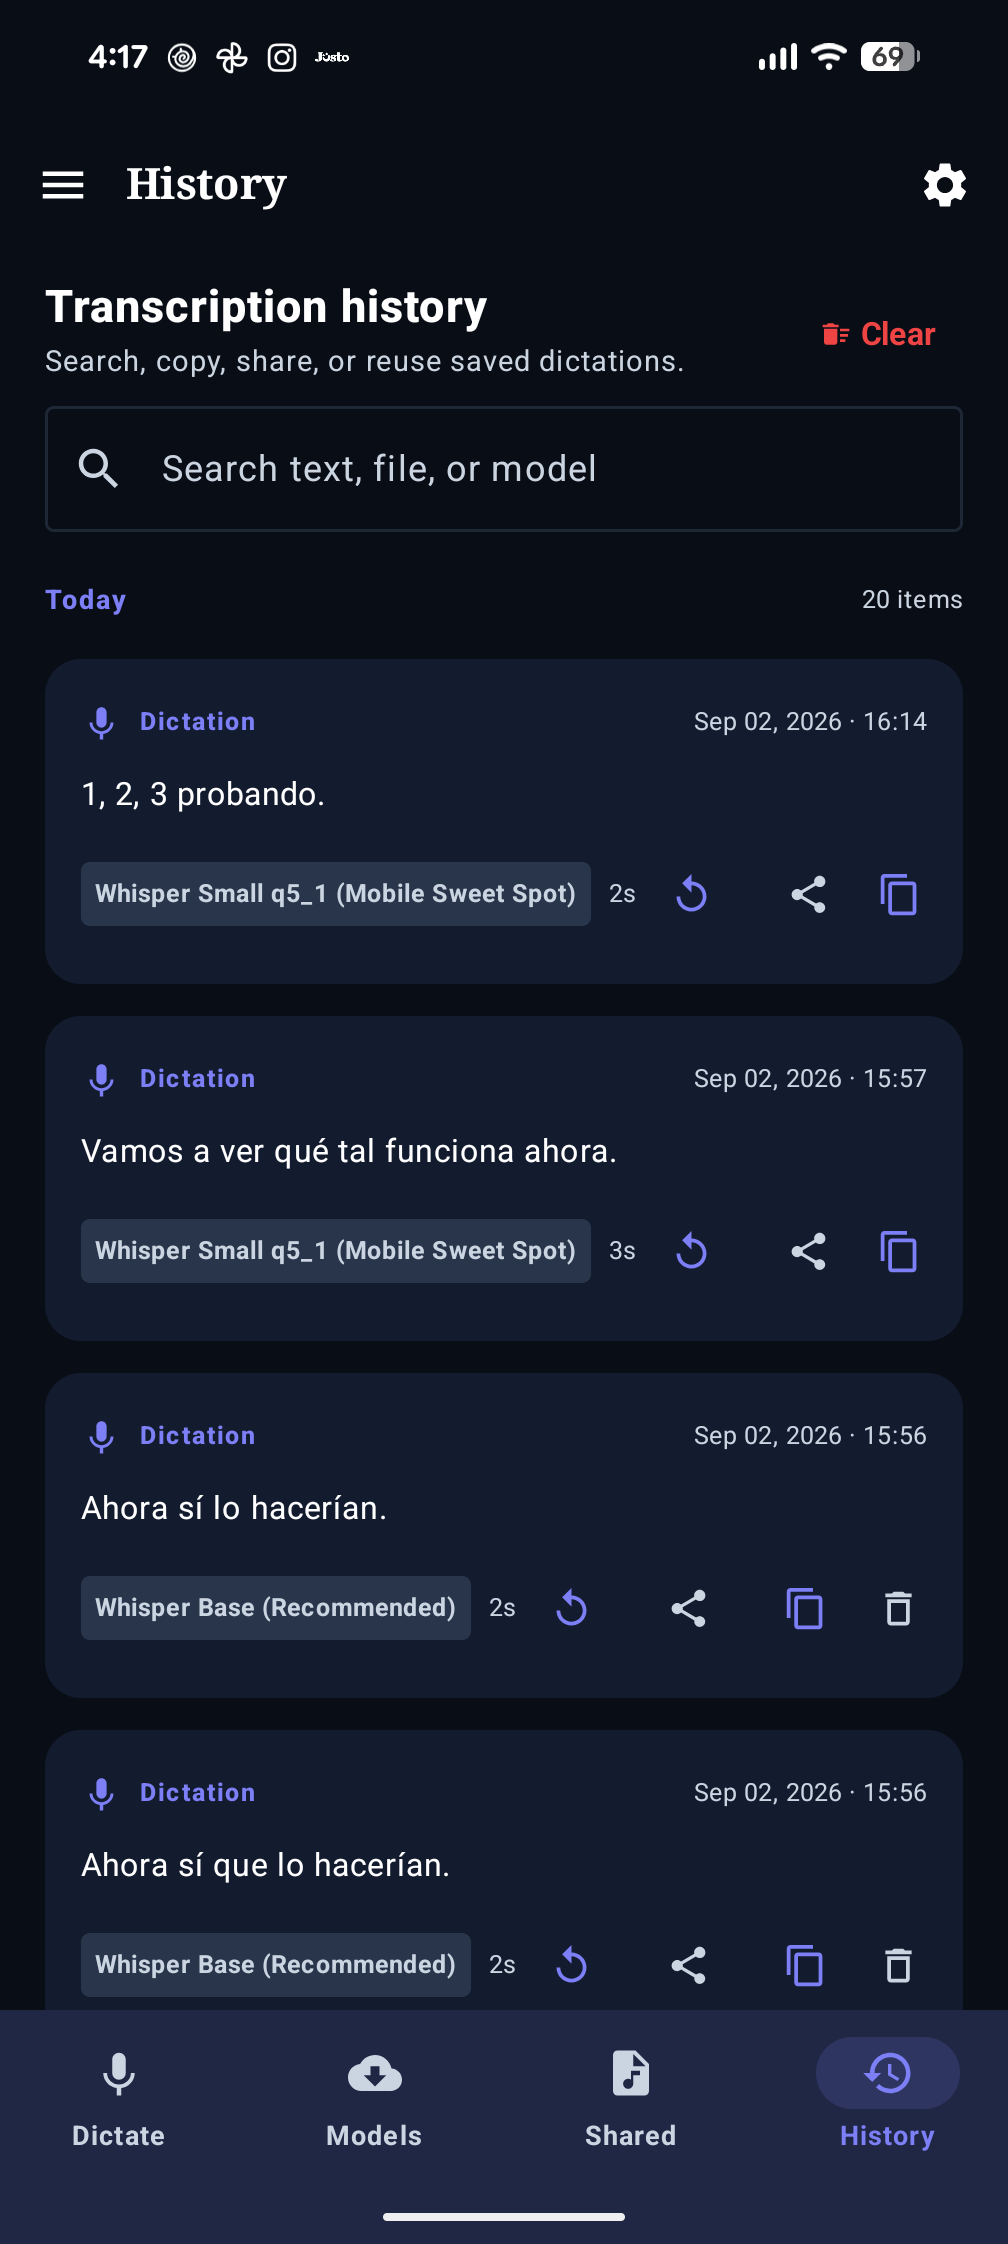
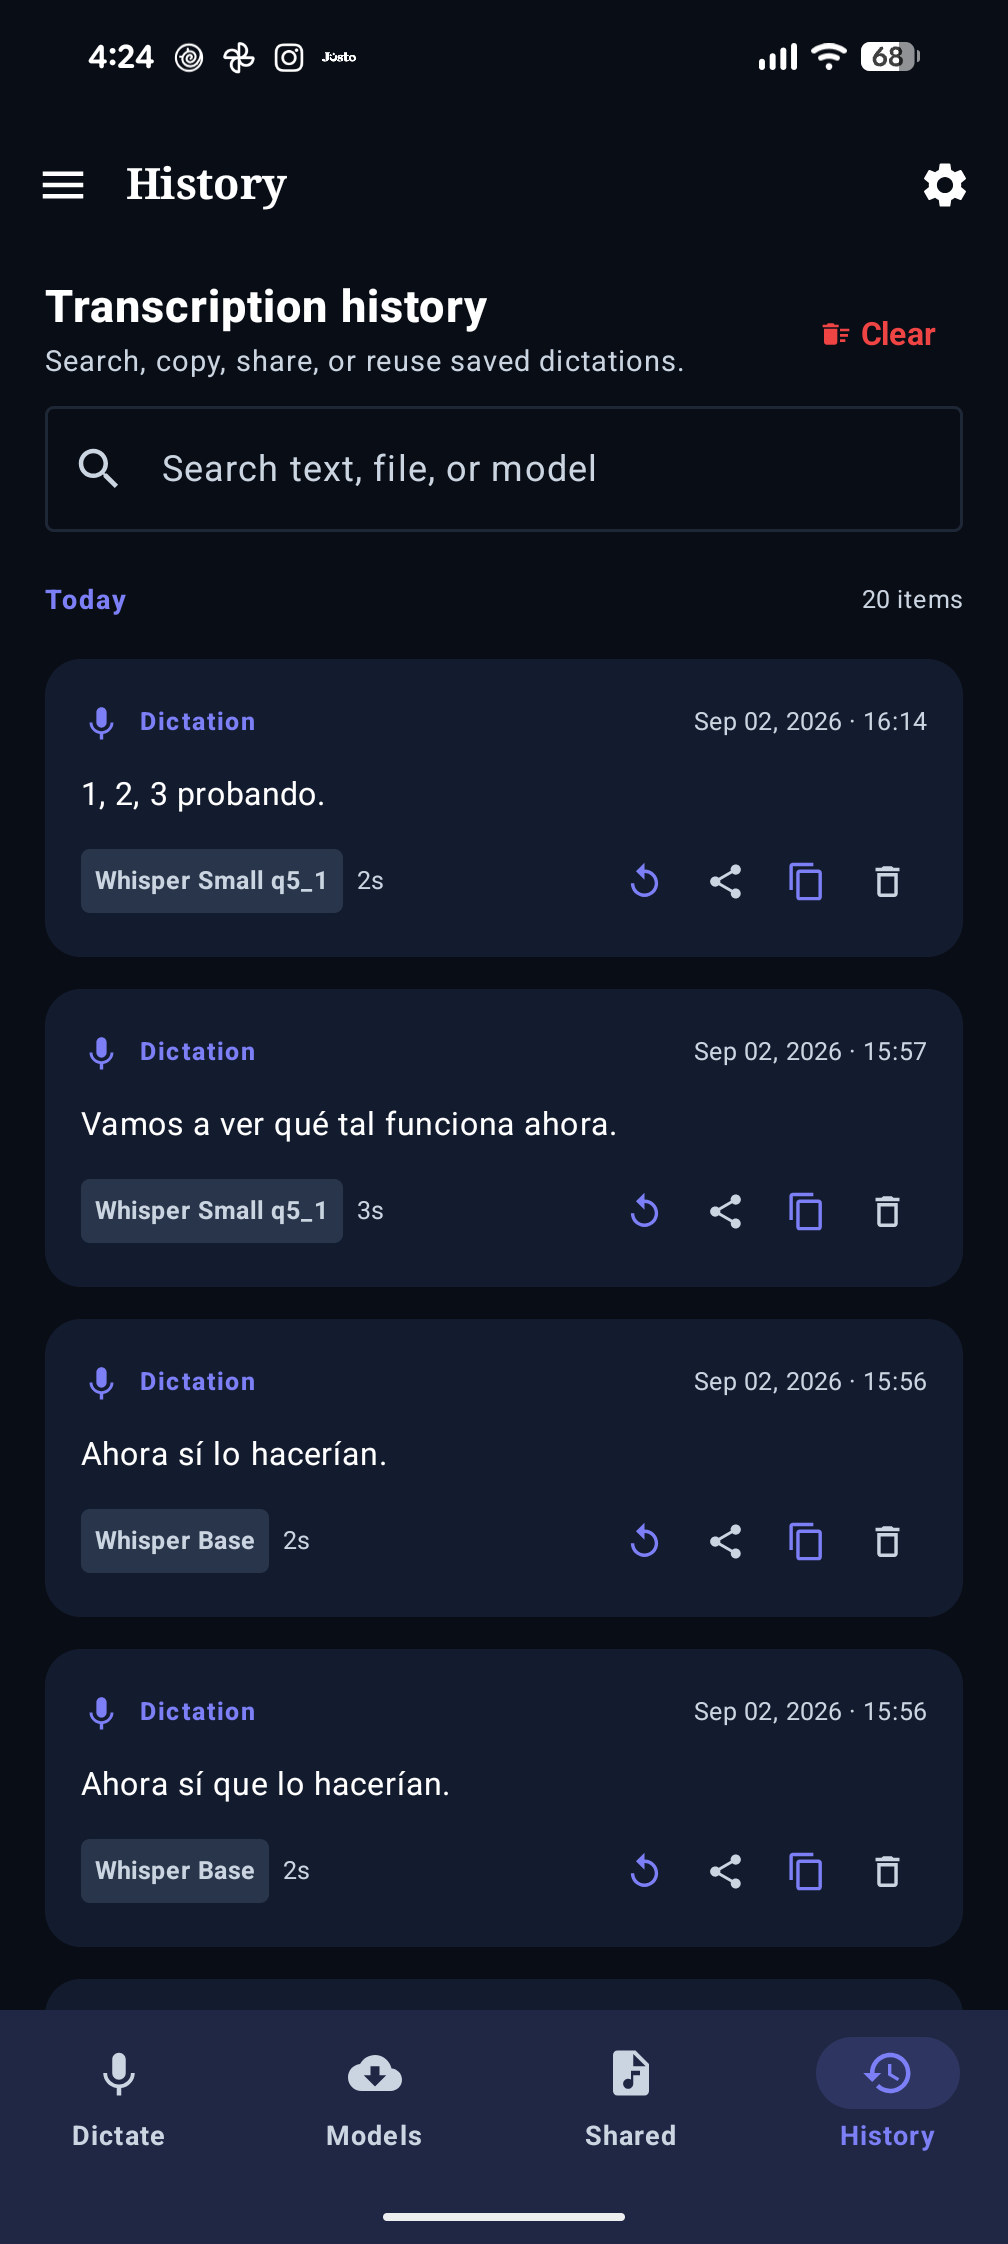
fix(ui): resolve history action overflow, active model badge truncation, and english accuracy display

diff --git a/app/src/main/java/dev/sebastian/vozlocal/ui/screens/HistoryTab.kt b/app/src/main/java/dev/sebastian/vozlocal/ui/screens/HistoryTab.kt
@@ -229,27 +229,39 @@ fun HistoryCard(
             Text(text = item.text, fontSize = 14.sp, color = MaterialTheme.colorScheme.onSurface, lineHeight = 20.sp)
 
             Row(modifier = Modifier.fillMaxWidth(), verticalAlignment = Alignment.CenterVertically, horizontalArrangement = Arrangement.SpaceBetween) {
-                Row(verticalAlignment = Alignment.CenterVertically, horizontalArrangement = Arrangement.spacedBy(8.dp)) {
+                Row(
+                    modifier = Modifier.weight(1f, fill = false),
+                    verticalAlignment = Alignment.CenterVertically,
+                    horizontalArrangement = Arrangement.spacedBy(6.dp)
+                ) {
+                    val modelBadge = item.modelUsed.substringBefore(" (")
                     Box(modifier = Modifier.background(MaterialTheme.colorScheme.surfaceVariant, RoundedCornerShape(4.dp)).padding(horizontal = 6.dp, vertical = 2.dp)) {
-                        Text(text = item.modelUsed, fontSize = 11.sp, color = MaterialTheme.colorScheme.onSurfaceVariant, fontWeight = FontWeight.Bold)
+                        Text(
+                            text = modelBadge,
+                            fontSize = 11.sp,
+                            color = MaterialTheme.colorScheme.onSurfaceVariant,
+                            fontWeight = FontWeight.Bold,
+                            maxLines = 1,
+                            overflow = TextOverflow.Ellipsis
+                        )
                     }
                     if (item.durationSec > 0) {
                         Text(text = "${item.durationSec}s", fontSize = 11.sp, color = MaterialTheme.colorScheme.onSurfaceVariant)
                     }
                 }
 
-                Row(horizontalArrangement = Arrangement.spacedBy(4.dp)) {
-                    IconButton(onClick = onReuse) {
-                        Icon(imageVector = Icons.Default.Replay, contentDescription = "Reuse transcript", tint = PrimaryColor, modifier = Modifier.size(20.dp))
+                Row(horizontalArrangement = Arrangement.spacedBy(0.dp)) {
+                    IconButton(onClick = onReuse, modifier = Modifier.size(36.dp)) {
+                        Icon(imageVector = Icons.Default.Replay, contentDescription = "Reuse transcript", tint = PrimaryColor, modifier = Modifier.size(18.dp))
                     }
-                    IconButton(onClick = onShare) {
-                        Icon(imageVector = Icons.Default.Share, contentDescription = "Share transcript", tint = MaterialTheme.colorScheme.onSurfaceVariant, modifier = Modifier.size(20.dp))
+                    IconButton(onClick = onShare, modifier = Modifier.size(36.dp)) {
+                        Icon(imageVector = Icons.Default.Share, contentDescription = "Share transcript", tint = MaterialTheme.colorScheme.onSurfaceVariant, modifier = Modifier.size(18.dp))
                     }
-                    IconButton(onClick = onCopy) {
-                        Icon(imageVector = Icons.Default.ContentCopy, contentDescription = "Copy transcription text", tint = PrimaryColor, modifier = Modifier.size(20.dp))
+                    IconButton(onClick = onCopy, modifier = Modifier.size(36.dp)) {
+                        Icon(imageVector = Icons.Default.ContentCopy, contentDescription = "Copy transcription text", tint = PrimaryColor, modifier = Modifier.size(18.dp))
                     }
-                    IconButton(onClick = { confirmDelete = true }) {
-                        Icon(imageVector = Icons.Default.DeleteOutline, contentDescription = "Delete history log", tint = MaterialTheme.colorScheme.onSurfaceVariant, modifier = Modifier.size(20.dp))
+                    IconButton(onClick = { confirmDelete = true }, modifier = Modifier.size(36.dp)) {
+                        Icon(imageVector = Icons.Default.DeleteOutline, contentDescription = "Delete history log", tint = MaterialTheme.colorScheme.onSurfaceVariant, modifier = Modifier.size(18.dp))
                     }
                 }
             }

diff --git a/app/src/main/java/dev/sebastian/vozlocal/ui/screens/DictateTab.kt b/app/src/main/java/dev/sebastian/vozlocal/ui/screens/DictateTab.kt
@@ -45,6 +45,7 @@ import androidx.compose.ui.semantics.semantics
 import androidx.compose.ui.semantics.stateDescription
 import androidx.compose.ui.text.AnnotatedString
 import androidx.compose.ui.text.font.FontWeight
+import androidx.compose.ui.text.style.TextOverflow
 import androidx.compose.ui.unit.dp
 import androidx.compose.ui.unit.sp
 import androidx.lifecycle.compose.collectAsStateWithLifecycle
@@ -143,17 +144,21 @@ fun DictateTab(
                         )
                     }
                     val isModelDownloaded = selectedModel?.isDownloaded == true
-                    Column {
+                    val rawModelName = selectedModel?.name ?: "Whisper Base"
+                    val baseModelName = rawModelName.substringBefore(" (")
+                    val modelTag = rawModelName.substringAfter(" (", "").removeSuffix(")")
+                    Column(modifier = Modifier.weight(1f, fill = false)) {
                         Row(
                             verticalAlignment = Alignment.CenterVertically,
                             horizontalArrangement = Arrangement.spacedBy(6.dp)
                         ) {
                             Text(
-                                text = selectedModel?.name ?: "Whisper Base",
+                                text = baseModelName,
                                 fontSize = 13.sp,
                                 fontWeight = FontWeight.Bold,
                                 color = MaterialTheme.colorScheme.onSurface,
-                                maxLines = 1
+                                maxLines = 1,
+                                overflow = TextOverflow.Ellipsis
                             )
                             if (!isModelDownloaded) {
                                 Box(
@@ -172,10 +177,15 @@ fun DictateTab(
                             }
                         }
                         Text(
-                            text = if (isModelDownloaded) "${selectedModel?.sizeMb?.toInt() ?: 78} MB • Ready Offline"
-                                   else "${selectedModel?.sizeMb?.toInt() ?: 78} MB • Download required",
+                            text = if (isModelDownloaded) {
+                                "${selectedModel?.sizeMb?.toInt() ?: 78} MB • Ready Offline" + if (modelTag.isNotEmpty()) " • $modelTag" else ""
+                            } else {
+                                "${selectedModel?.sizeMb?.toInt() ?: 78} MB • Download required"
+                            },
                             fontSize = 10.sp,
-                            color = if (isModelDownloaded) MaterialTheme.colorScheme.onSurfaceVariant else Color(0xFFEF4444)
+                            color = if (isModelDownloaded) MaterialTheme.colorScheme.onSurfaceVariant else Color(0xFFEF4444),
+                            maxLines = 1,
+                            overflow = TextOverflow.Ellipsis
                         )
                     }
                 }

diff --git a/app/src/main/java/dev/sebastian/vozlocal/ui/screens/ModelsTab.kt b/app/src/main/java/dev/sebastian/vozlocal/ui/screens/ModelsTab.kt
@@ -179,15 +179,18 @@ fun ModelCard(
                 modifier = Modifier.fillMaxWidth(),
                 horizontalArrangement = Arrangement.spacedBy(16.dp)
             ) {
-                // Spanish accuracy
+                // Accuracy
+                val isEnglishOnly = model.id.endsWith("_en") || model.accuracySpanish == 0
+                val accuracyLabel = if (isEnglishOnly) "English accuracy" else "Spanish accuracy"
+                val accuracyValue = if (isEnglishOnly) 93 else model.accuracySpanish
                 Column(modifier = Modifier.weight(1f)) {
-                    Text(text = "Spanish accuracy", fontSize = 11.sp, fontWeight = FontWeight.Bold, color = MaterialTheme.colorScheme.onSurfaceVariant)
+                    Text(text = accuracyLabel, fontSize = 11.sp, fontWeight = FontWeight.Bold, color = MaterialTheme.colorScheme.onSurfaceVariant)
                     Row(
                         verticalAlignment = Alignment.CenterVertically,
                         horizontalArrangement = Arrangement.spacedBy(4.dp)
                     ) {
                         LinearProgressIndicator(
-                            progress = { model.accuracySpanish / 100f },
+                            progress = { accuracyValue / 100f },
                             modifier = Modifier
                                 .weight(1f)
                                 .height(4.dp)
@@ -195,7 +198,7 @@ fun ModelCard(
                             color = PrimaryColor,
                             trackColor = MaterialTheme.colorScheme.surfaceContainer
                         )
-                        Text(text = "${model.accuracySpanish}%", fontSize = 11.sp, fontWeight = FontWeight.Bold, color = MaterialTheme.colorScheme.onSurface)
+                        Text(text = "${accuracyValue}%", fontSize = 11.sp, fontWeight = FontWeight.Bold, color = MaterialTheme.colorScheme.onSurface)
                     }
                 }
 

diff --git a/README.md b/README.md
@@ -160,14 +160,15 @@ Models are downloaded on-demand from Hugging Face directly to `context.filesDir/
 
 VozLocal optimizes for complete, accurate local transcription before micro-latency:
 
-- **Multi-core CPU threading optimization** — `WhisperCpuConfig` dynamically discovers high-performance CPU cores by parsing `/sys/devices/system/cpu/` and `/proc/cpuinfo`. It safely allocates up to 4 performance cores (capping at 2 on lower-core devices) while reserving CPU budget for the audio recording and UI threads. This avoids mobile thermal throttling and oversubscription during sustained dictation. Allocation also scales by active model size (e.g. reserving 4 cores for Large/Medium and 2-3 for Base/Tiny), with configurable JVM override (`-Dvozlocal.whisper.threads=N`).
-- **Input-focus zero-latency model warmup** — In `DictationAccessibilityService`, whenever a permitted text input field receives focus (`TYPE_VIEW_FOCUSED` or `TYPE_WINDOW_STATE_CHANGED`), a background coroutine on `Dispatchers.Default` warms up the active Whisper model in memory (`warmupModelIfNeeded()`). This eliminates cold-start JNI initialization pauses (~300–800ms), ensuring dictation begins instantaneously the moment you tap the floating microphone.
-- **Capture integrity** — stopping the microphone stops and joins the PCM reader before samples are copied, so a final in-flight audio block cannot be lost.
-- **Long dictation safety** — dictations up to 25 seconds retain Whisper’s fast single-window path. Longer recordings automatically enable multi-window decoding, avoiding 30-second-window truncation.
-- **Accuracy-oriented decoding** — the default no-speech and log-probability thresholds are `0.6` and `-1.0`; a `0.2` temperature increment lets Whisper retry uncertain passages. Advanced thresholds remain configurable in Settings.
-- **Long-file coherence** — shared audio uses timestamps, multi-window decoding, and previous decoder context rather than treating every Whisper window as unrelated speech.
-- **Streaming preview (opt-in)** — the Dictate screen can display rolling transcription while recording. It uses raw PCM snapshots, overlapping windows, and token reconciliation; the final full-recording pass preserves the established accuracy and post-processing pipeline.
-- **Measurable comparisons** — the `benchmark` package provides deterministic Unicode-aware WER/CER scoring and records model, quantization, threads, VAD, timing, real-time factor, optional memory, and thermal status. Model labels in the UI and table are guidance, not device-specific measurements.
+- **Multi-core CPU threading optimization** — `WhisperCpuConfig` dynamically discovers high-performance CPU cores by parsing `/sys/devices/system/cpu/` and `/proc/cpuinfo`. It safely allocates up to 5 performance cores on modern 8+ core and 9-core mobile SoCs (such as the Pixel 8 Pro Tensor G3: 1x Cortex-X3 + 4x Cortex-A715) while reserving CPU budget for audio recording and UI threads. Thread allocation also scales by active model size, with configurable JVM override (`-Dvozlocal.whisper.threads=N`).
+- **Native ARM `FEAT_I8MM` acceleration** — Compiling with `-march=armv8.2-a+fp16+dotprod+i8mm` unlocks hardware-accelerated Int8 Matrix Multiplication (`SMMLA`/`UMMLA`) and GGML KleidiAI kernels, providing up to 2x faster matrix evaluation on quantized models (`whisper_base` Q8_0 and `whisper_small_q5_1`).
+- **Dynamic audio context (`audio_ctx`) scaling** — Instead of encoding a fixed 30-second window for every utterance, `WhisperParams.forLiveAudio` dynamically scales `audio_ctx` to match actual spoken duration (`((durationSec + 0.75f) * 50).coerceIn(256, 1500)`), eliminating 2.5x–4x redundant encoder matrix computations on short dictations.
+- **Input-focus zero-latency model warmup** — In `DictationAccessibilityService`, whenever a permitted text input field receives focus (`TYPE_VIEW_FOCUSED` or `TYPE_WINDOW_STATE_CHANGED`), a background coroutine warms up the active Whisper model in memory (`warmupModelIfNeeded()`). This eliminates cold-start JNI initialization pauses (~300–800ms), ensuring dictation begins instantaneously the moment you tap the floating microphone.
+- **Capture integrity** — Stopping the microphone stops and joins the PCM reader before samples are copied, so a final in-flight audio block cannot be lost.
+- **Long dictation safety** — Dictations up to 25 seconds retain Whisper’s fast single-window path. Longer recordings automatically enable multi-window decoding, avoiding 30-second-window truncation.
+- **Accuracy-oriented decoding** — Default rejection thresholds (`no_speech_thold = 0.6`, `logprob_thold = -1.0`) reject background noise and hallucination. For live dictation, `temperatureInc = 0.0f` and `noTimestamps = true` maximize inference speed and eliminate retry loops; for shared audio files, multi-temperature fallback (`temperatureInc = 0.2f`) is retained for maximum accuracy.
+- **Long-file coherence** — Shared audio uses timestamps, multi-window decoding, and previous decoder context rather than treating every Whisper window as unrelated speech.
+- **Measurable comparisons** — The `benchmark` package provides deterministic Unicode-aware WER/CER scoring and records model, quantization, threads, VAD, timing, real-time factor, optional memory, and thermal status. Model labels in the UI and table are guidance, not device-specific measurements.
 
 ### Pixel 8 Pro baseline
 
